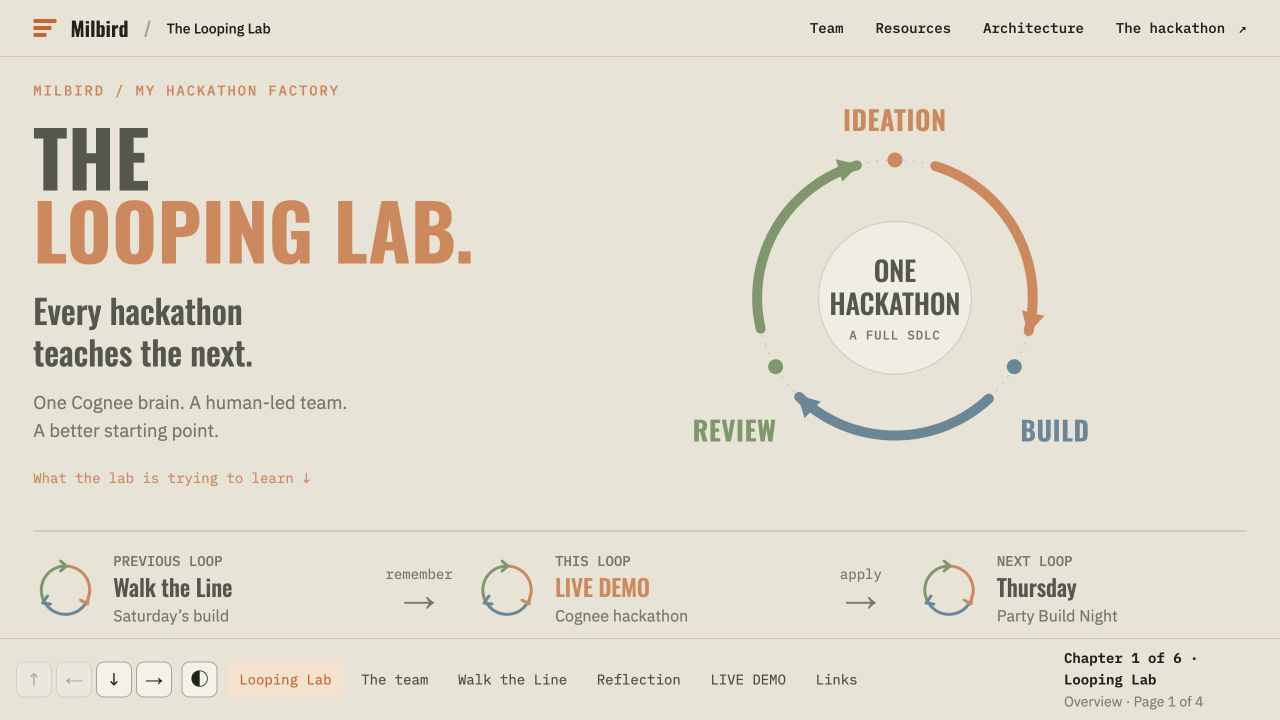
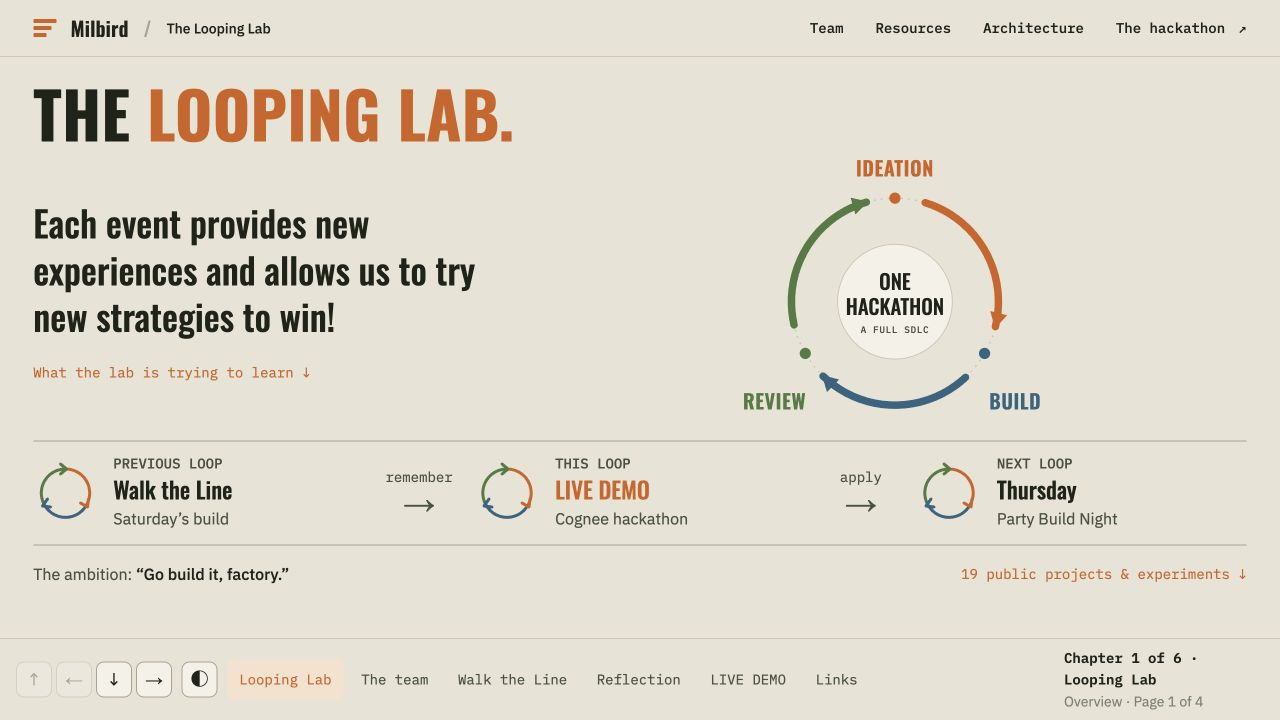
Update Looping Lab cover message and layout

diff --git a/presentation/index.html b/presentation/index.html
@@ -21,7 +21,7 @@
   <nav aria-label="Main navigation"><a href="#team">Team</a><a href="#links">Resources</a><a href="#today/architecture">Architecture</a><a class="event-link" href="https://luma.com/sep-21-cognee-aws" target="_blank" rel="noopener noreferrer">The hackathon <span aria-hidden="true">↗</span></a></nav>
 </header>
 <main id="main" tabindex="-1">
-<section id="story" class="lab-cover loop-cover deck-slide" data-chapter="story" data-page="overview" data-chapter-title="Looping Lab" data-title="The Looping Lab" aria-labelledby="hero-title"><div class="loop-cover-main"><div class="loop-intro"><p class="eyebrow">MILBIRD / MY HACKATHON FACTORY</p><h1 id="hero-title">The<br><em>Looping Lab.</em></h1><p class="loop-thesis">Every hackathon<br>teaches the next.</p><p class="loop-intent">One Cognee brain. A human-led team.<br>A better starting point.</p><a class="quiet-link" href="#story/goals">What the lab is trying to learn ↓</a></div><figure class="cycle-figure"><svg class="learning-cycle" viewBox="0 0 640 425" role="img" aria-labelledby="cycle-title cycle-desc"><title id="cycle-title">The three-stage hackathon loop</title><desc id="cycle-desc">A clockwise circle connects Ideation at the top, Build at the lower right, and Review at the lower left. Review returns to Ideation. The goal is to run this complete cycle at each hackathon.</desc><defs><marker id="loop-arrow-comms" viewBox="0 0 12 12" refX="9" refY="6" markerWidth="2.8" markerHeight="2.8" orient="auto"><path d="M 1 1 L 10 6 L 1 11 Z" class="fill-comms"/></marker><marker id="loop-arrow-water" viewBox="0 0 12 12" refX="9" refY="6" markerWidth="2.8" markerHeight="2.8" orient="auto"><path d="M 1 1 L 10 6 L 1 11 Z" class="fill-water"/></marker><marker id="loop-arrow-sewer" viewBox="0 0 12 12" refX="9" refY="6" markerWidth="2.8" markerHeight="2.8" orient="auto"><path d="M 1 1 L 10 6 L 1 11 Z" class="fill-sewer"/></marker></defs><circle cx="320" cy="228" r="166" class="cycle-track"/><path d="M 368.53 69.25 A 166 166 0 0 1 481.07 268.16" class="cycle-segment cycle-comms" marker-end="url(#loop-arrow-comms)"/><path d="M 433.21 349.40 A 166 166 0 0 1 204.69 347.41" class="cycle-segment cycle-water" marker-end="url(#loop-arrow-water)"/><path d="M 158.25 265.34 A 166 166 0 0 1 274.24 68.43" class="cycle-segment cycle-sewer" marker-end="url(#loop-arrow-sewer)"/><circle cx="320" cy="62" r="9" class="fill-comms"/><circle cx="463.76" cy="311" r="9" class="fill-water"/><circle cx="176.24" cy="311" r="9" class="fill-sewer"/><text x="320" y="27" text-anchor="middle" class="cycle-stage fill-comms">IDEATION</text><text x="513" y="401" text-anchor="middle" class="cycle-stage fill-water">BUILD</text><text x="127" y="401" text-anchor="middle" class="cycle-stage fill-sewer">REVIEW</text><circle cx="320" cy="228" r="92" class="cycle-center"/><text x="320" y="209" text-anchor="middle" class="cycle-core">ONE</text><text x="320" y="249" text-anchor="middle" class="cycle-core">HACKATHON</text><text x="320" y="278" text-anchor="middle" class="cycle-caption">A FULL SDLC</text></svg></figure></div><div class="event-loop-rail" aria-label="The loop repeats across hackathons"><a class="event-loop" href="#walk-the-line"><svg viewBox="0 0 64 64" aria-hidden="true" class="event-cycle"><path d="M32 8 A24 24 0 0 1 53 44" class="mini-comms"/><path d="M53 44 A24 24 0 0 1 11 44" class="mini-water"/><path d="M11 44 A24 24 0 0 1 32 8" class="mini-sewer"/><path d="m47 42 7 4 1-8" class="mini-comms"/><path d="m14 38-5 7 8 1" class="mini-water"/><path d="m27 3 6 5-6 5" class="mini-sewer"/></svg><span><small>PREVIOUS LOOP</small><strong>Walk the Line</strong><span>Saturday’s build</span></span></a><span class="learning-handoff"><span>remember</span><b aria-hidden="true">→</b></span><a class="event-loop current-loop" href="#today"><svg viewBox="0 0 64 64" aria-hidden="true" class="event-cycle"><path d="M32 8 A24 24 0 0 1 53 44" class="mini-comms"/><path d="M53 44 A24 24 0 0 1 11 44" class="mini-water"/><path d="M11 44 A24 24 0 0 1 32 8" class="mini-sewer"/><path d="m47 42 7 4 1-8" class="mini-comms"/><path d="m14 38-5 7 8 1" class="mini-water"/><path d="m27 3 6 5-6 5" class="mini-sewer"/></svg><span><small>THIS LOOP</small><strong>LIVE DEMO</strong><span>Cognee hackathon</span></span></a><span class="learning-handoff"><span>apply</span><b aria-hidden="true">→</b></span><div class="event-loop next-loop"><svg viewBox="0 0 64 64" aria-hidden="true" class="event-cycle"><path d="M32 8 A24 24 0 0 1 53 44" class="mini-comms"/><path d="M53 44 A24 24 0 0 1 11 44" class="mini-water"/><path d="M11 44 A24 24 0 0 1 32 8" class="mini-sewer"/><path d="m47 42 7 4 1-8" class="mini-comms"/><path d="m14 38-5 7 8 1" class="mini-water"/><path d="m27 3 6 5-6 5" class="mini-sewer"/></svg><span><small>NEXT LOOP</small><strong>Thursday</strong><span>Party Build Night</span></span></div></div><div class="loop-bottom"><p class="loop-ambition">The ambition: <strong>“Go build it, factory.”</strong></p><a class="quiet-link" href="#story/hackathons">19 public projects &amp; experiments ↓</a></div></section>
+<section id="story" class="lab-cover loop-cover deck-slide" data-chapter="story" data-page="overview" data-chapter-title="Looping Lab" data-title="The Looping Lab" aria-labelledby="hero-title"><h1 id="hero-title">The <em>Looping Lab.</em></h1><div class="loop-cover-main"><div class="loop-intro"><p class="loop-thesis">Each event provides new experiences and allows us to try new strategies to win!</p><a class="quiet-link" href="#story/goals">What the lab is trying to learn ↓</a></div><figure class="cycle-figure"><svg class="learning-cycle" viewBox="0 0 640 425" role="img" aria-labelledby="cycle-title cycle-desc"><title id="cycle-title">The three-stage hackathon loop</title><desc id="cycle-desc">A clockwise circle connects Ideation at the top, Build at the lower right, and Review at the lower left. Review returns to Ideation. The goal is to run this complete cycle at each hackathon.</desc><defs><marker id="loop-arrow-comms" viewBox="0 0 12 12" refX="9" refY="6" markerWidth="2.8" markerHeight="2.8" orient="auto"><path d="M 1 1 L 10 6 L 1 11 Z" class="fill-comms"/></marker><marker id="loop-arrow-water" viewBox="0 0 12 12" refX="9" refY="6" markerWidth="2.8" markerHeight="2.8" orient="auto"><path d="M 1 1 L 10 6 L 1 11 Z" class="fill-water"/></marker><marker id="loop-arrow-sewer" viewBox="0 0 12 12" refX="9" refY="6" markerWidth="2.8" markerHeight="2.8" orient="auto"><path d="M 1 1 L 10 6 L 1 11 Z" class="fill-sewer"/></marker></defs><circle cx="320" cy="228" r="166" class="cycle-track"/><path d="M 368.53 69.25 A 166 166 0 0 1 481.07 268.16" class="cycle-segment cycle-comms" marker-end="url(#loop-arrow-comms)"/><path d="M 433.21 349.40 A 166 166 0 0 1 204.69 347.41" class="cycle-segment cycle-water" marker-end="url(#loop-arrow-water)"/><path d="M 158.25 265.34 A 166 166 0 0 1 274.24 68.43" class="cycle-segment cycle-sewer" marker-end="url(#loop-arrow-sewer)"/><circle cx="320" cy="62" r="9" class="fill-comms"/><circle cx="463.76" cy="311" r="9" class="fill-water"/><circle cx="176.24" cy="311" r="9" class="fill-sewer"/><text x="320" y="27" text-anchor="middle" class="cycle-stage fill-comms">IDEATION</text><text x="513" y="401" text-anchor="middle" class="cycle-stage fill-water">BUILD</text><text x="127" y="401" text-anchor="middle" class="cycle-stage fill-sewer">REVIEW</text><circle cx="320" cy="228" r="92" class="cycle-center"/><text x="320" y="209" text-anchor="middle" class="cycle-core">ONE</text><text x="320" y="249" text-anchor="middle" class="cycle-core">HACKATHON</text><text x="320" y="278" text-anchor="middle" class="cycle-caption">A FULL SDLC</text></svg></figure></div><div class="event-loop-rail" aria-label="The loop repeats across hackathons"><a class="event-loop" href="#walk-the-line"><svg viewBox="0 0 64 64" aria-hidden="true" class="event-cycle"><path d="M32 8 A24 24 0 0 1 53 44" class="mini-comms"/><path d="M53 44 A24 24 0 0 1 11 44" class="mini-water"/><path d="M11 44 A24 24 0 0 1 32 8" class="mini-sewer"/><path d="m47 42 7 4 1-8" class="mini-comms"/><path d="m14 38-5 7 8 1" class="mini-water"/><path d="m27 3 6 5-6 5" class="mini-sewer"/></svg><span><small>PREVIOUS LOOP</small><strong>Walk the Line</strong><span>Saturday’s build</span></span></a><span class="learning-handoff"><span>remember</span><b aria-hidden="true">→</b></span><a class="event-loop current-loop" href="#today"><svg viewBox="0 0 64 64" aria-hidden="true" class="event-cycle"><path d="M32 8 A24 24 0 0 1 53 44" class="mini-comms"/><path d="M53 44 A24 24 0 0 1 11 44" class="mini-water"/><path d="M11 44 A24 24 0 0 1 32 8" class="mini-sewer"/><path d="m47 42 7 4 1-8" class="mini-comms"/><path d="m14 38-5 7 8 1" class="mini-water"/><path d="m27 3 6 5-6 5" class="mini-sewer"/></svg><span><small>THIS LOOP</small><strong>LIVE DEMO</strong><span>Cognee hackathon</span></span></a><span class="learning-handoff"><span>apply</span><b aria-hidden="true">→</b></span><div class="event-loop next-loop"><svg viewBox="0 0 64 64" aria-hidden="true" class="event-cycle"><path d="M32 8 A24 24 0 0 1 53 44" class="mini-comms"/><path d="M53 44 A24 24 0 0 1 11 44" class="mini-water"/><path d="M11 44 A24 24 0 0 1 32 8" class="mini-sewer"/><path d="m47 42 7 4 1-8" class="mini-comms"/><path d="m14 38-5 7 8 1" class="mini-water"/><path d="m27 3 6 5-6 5" class="mini-sewer"/></svg><span><small>NEXT LOOP</small><strong>Thursday</strong><span>Party Build Night</span></span></div></div><div class="loop-bottom"><p class="loop-ambition">The ambition: <strong>“Go build it, factory.”</strong></p><a class="quiet-link" href="#story/hackathons">19 public projects &amp; experiments ↓</a></div></section>
 <section id="story-goals" class="detail-slide deck-slide" data-chapter="story" data-page="goals" data-chapter-title="Looping Lab" data-title="The goals of the Looping Lab." aria-labelledby="story-goals-title"><div class="section-heading"><div><p class="eyebrow">LOOPING LAB / GOALS &amp; EXPERIMENTS</p><h2 id="story-goals-title">Every hackathon tests the factory.</h2></div><p>The event is the workload. The reusable result is what we learn about building with agents.</p></div><div class="arc"><article class="ac" style="--ac:var(--comms)"><span class="an">RUN THE FULL SDLC</span><h3>Ideate. Build. Review.</h3><p>Make an idea runnable, check the result, then use the review to change the next preparation.</p></article><article class="ac" style="--ac:var(--water)"><span class="an">ARRIVE READY</span><h3>Go build it, factory.</h3><p>Have the laptop, tools, templates and memory ready, so the first decision can be what to build.</p></article><article class="ac" style="--ac:var(--sewer)"><span class="an">COMPOUND THE LEARNING</span><h3>One event—or many.</h3><p>The Participant role can span multiple hackathons. Keep each event’s evidence distinct inside the same cumulative brain.</p></article></div><ol class="factory-flow"><li><span>EXPERIMENT</span><strong>State a hypothesis</strong></li><li><span>CHANGE</span><strong>Try one approach</strong></li><li><span>EVIDENCE</span><strong>Check what happened</strong></li><li><span>NEXT LOOP</span><strong>Change the next preparation</strong></li></ol><p class="detail-takeaway">Speed, quality, repeatability and better competition outcomes are goals. The evidence tells us whether a particular experiment helped.</p><a class="quiet-link" href="#story/hackathons">Explore the project history ↓</a></section><section id="story-context" class="detail-slide deck-slide" data-chapter="story" data-page="context" data-chapter-title="Looping Lab" data-title="Make the factory faster with every loop." aria-labelledby="story-context-title"><div class="section-heading"><div><p class="eyebrow">LOOPING LAB / THE FULL SDLC</p><h2 id="story-context-title">Make the factory faster with every loop.</h2></div><p>Hackathon Prep is the repository name. Looping Lab is the learning system: one cumulative brain, a reusable setup, and a complete build-and-review cycle.</p></div><div class="arc"><article class="ac" style="--ac:var(--comms)"><span class="an">DEFINE & DESIGN</span><h3>Ideate</h3><p>Choose the problem, expected behavior, acceptance checks, and the smallest useful solution.</p><span class="built">Beginning</span></article><article class="ac" style="--ac:var(--water)"><span class="an">IMPLEMENT & VERIFY</span><h3>Build</h3><p>Turn the idea into software, run checks, prepare the demo, and preserve execution evidence.</p><span class="built">Middle</span></article><article class="ac" style="--ac:var(--sewer)"><span class="an">EVALUATE & IMPROVE</span><h3>Review</h3><p>Compare the result with the goal. Keep corrections and reusable lessons for the next event.</p><span class="built">End → next beginning</span></article></div><p class="detail-takeaway">Measure time to first runnable build, time to a verified answer, and how much useful work is reused. Measurements are still to be collected.</p></section>
 <section id="story-hackathons" class="detail-slide deck-slide history-slide" data-chapter="story" data-page="hackathons" data-chapter-title="Looping Lab" data-title="Many hackathons. One learning lab." aria-labelledby="history-title"><div class="section-heading"><div><p class="eyebrow">LOOPING LAB / EXPERIMENTS OVER TIME</p><h2 id="history-title">Many hackathons.<br>One learning lab.</h2></div><p>Each event is another chance to ideate, build, and review. Browse the projects from my Milbird carousel, then follow Saturday’s loop into today’s.</p></div><div class="history-counts"><div><strong>19</strong><span>public portfolio entries</span></div><div><strong>14</strong><span>events with structured outcomes</span></div><div><strong>17</strong><span>event learning records</span></div></div><p class="history-count-note">Overlapping snapshots of projects and experiments—not an additive attendance total. The broader history continues to grow.</p><div class="portfolio-carousel" data-native-keys tabindex="0" role="region" aria-label="Hackathon project carousel"><div class="portfolio-controls"><span id="portfolio-position" aria-live="polite">1 / 19</span><div><button type="button" id="portfolio-previous" aria-label="Previous hackathon project">←</button><button type="button" id="portfolio-next" aria-label="Next hackathon project">→</button></div></div><div class="portfolio-track"><article class="portfolio-card" data-index="0"><div class="portfolio-cover"><img src="https://milbird.com/ledger/event-data-ai.jpg" alt="" loading="lazy" width="600" height="400"></div><div class="portfolio-copy"><div class="portfolio-meta"><time datetime="2026-09-11">2026-09-11</time><span>Attended</span></div><h3>Data &amp; AI Hackathon</h3><p>Data &amp; AI Hackathon: Real job. Real AI. Real scale.</p><div class="portfolio-links"><a href="https://luma.com/qisv9xmg" target="_blank" rel="noopener noreferrer">About the event ↗</a></div></div></article><article class="portfolio-card" data-index="1"><div class="portfolio-cover"><img src="https://milbird.com/ledger/event-better-days.jpg" alt="" loading="lazy" width="600" height="400"></div><div class="portfolio-copy"><div class="portfolio-meta"><time datetime="2026-08-28">2026-08-28</time><span>1st place</span></div><h3>Read to Play</h3><p>Better Days: A Hackathon — San Francisco</p><div class="portfolio-links"><a href="https://github.com/Patcast/clickhouse_hackathon" target="_blank" rel="noopener noreferrer">Explore the project ↗</a></div></div></article><article class="portfolio-card" data-index="2"><div class="portfolio-cover"><img src="https://milbird.com/ledger/event-sia.jpg" alt="" loading="lazy" width="600" height="400"></div><div class="portfolio-copy"><div class="portfolio-meta"><time datetime="2026-08-25">2026-08-25</time><span>Experiment</span></div><h3>Enid Certificate Agent</h3><p>Frontier Build Night: Self-Improving Agents</p><div class="portfolio-links"><a href="https://github.com/jymiller/hack-sia" target="_blank" rel="noopener noreferrer">Explore the project ↗</a><a href="https://www.youtube.com/watch?v=TATwwNfjNfA" target="_blank" rel="noopener noreferrer">Demo ↗</a></div></div></article><article class="portfolio-card" data-index="3"><div class="portfolio-cover"><img src="https://milbird.com/ledger/great-questions.jpg" alt="" loading="lazy" width="600" height="400"></div><div class="portfolio-copy"><div class="portfolio-meta"><time datetime="2026-08-19">2026-08-19</time><span>Build</span></div><h3>Great Questions AI</h3><p>Agent Memory Hack Night</p><div class="portfolio-links"><a href="https://github.com/jymiller/hack-elastic-mastra" target="_blank" rel="noopener noreferrer">Explore the project ↗</a><a href="https://youtu.be/mRkD1FRksxg" target="_blank" rel="noopener noreferrer">Demo ↗</a></div></div></article><article class="portfolio-card" data-index="4"><div class="portfolio-cover"><img src="https://milbird.com/ledger/event-agent-harness.jpg" alt="" loading="lazy" width="600" height="400"></div><div class="portfolio-copy"><div class="portfolio-meta"><time datetime="2026-08-18">2026-08-18</time><span>2nd place</span></div><h3>Podcast Research Agent</h3><p>The Agent Harness Workshop</p><div class="portfolio-links"><a href="https://github.com/jymiller/hack-truefoundry" target="_blank" rel="noopener noreferrer">Explore the project ↗</a></div></div></article><article class="portfolio-card" data-index="5"><div class="portfolio-cover"><img src="https://milbird.com/ledger/event-terac.jpg" alt="" loading="lazy" width="600" height="400"></div><div class="portfolio-copy"><div class="portfolio-meta"><time datetime="2026-08-15">2026-08-15</time><span>Experiment</span></div><h3>Second Reading</h3><p>Zero-Human Company Hackathon</p><div class="portfolio-links"><a href="https://github.com/jymiller/hack-terac" target="_blank" rel="noopener noreferrer">Explore the project ↗</a></div></div></article><article class="portfolio-card" data-index="6"><div class="portfolio-cover"><img src="https://milbird.com/ledger/event-relay.jpg" alt="" loading="lazy" width="600" height="400"></div><div class="portfolio-copy"><div class="portfolio-meta"><time datetime="2026-08-13">2026-08-13</time><span>Build</span></div><h3>Enid Mandate Relay</h3><p>Persistent Context Sprint — MongoDB .local Build Fest</p><div class="portfolio-links"><a href="https://github.com/jymiller/enid-mandate-relay" target="_blank" rel="noopener noreferrer">Explore the project ↗</a><a href="https://youtu.be/hqXhRymcpS4" target="_blank" rel="noopener noreferrer">Demo ↗</a></div></div></article><article class="portfolio-card" data-index="7"><div class="portfolio-cover"><div class="portfolio-type-cover" aria-hidden="true">Deal Witness: DataHub</div></div><div class="portfolio-copy"><div class="portfolio-meta"><time datetime="2026-08-10">2026-08-10</time><span>Not submitted for judging</span></div><h3>Deal Witness: DataHub</h3><p>Build with DataHub: The Agent Hackathon</p><div class="portfolio-links"><a href="https://datahub.devpost.com/" target="_blank" rel="noopener noreferrer">About the event ↗</a></div></div></article><article class="portfolio-card" data-index="8"><div class="portfolio-cover"><img src="https://milbird.com/ledger/deal-witness.jpg" alt="" loading="lazy" width="600" height="400"></div><div class="portfolio-copy"><div class="portfolio-meta"><time datetime="2026-08-07">2026-08-07</time><span>Build</span></div><h3>Deal Witness</h3><p>Snowflake × Beta Fund — Agent &amp; Token Economy</p><div class="portfolio-links"><a href="https://github.com/jymiller/deal-witness" target="_blank" rel="noopener noreferrer">Explore the project ↗</a></div></div></article><article class="portfolio-card" data-index="9"><div class="portfolio-cover"><img src="https://milbird.com/ledger/asset-watcher.jpg" alt="" loading="lazy" width="600" height="400"></div><div class="portfolio-copy"><div class="portfolio-meta"><time datetime="2026-08-03">2026-08-03</time><span>Build</span></div><h3>Asset Watcher</h3><p>Memory Meets Motion: Hackathon</p><div class="portfolio-links"><a href="https://github.com/jymiller/hack-memory-motion" target="_blank" rel="noopener noreferrer">Explore the project ↗</a><a href="https://www.youtube.com/watch?v=QRdyvOMdL2g" target="_blank" rel="noopener noreferrer">Demo ↗</a></div></div></article><article class="portfolio-card" data-index="10"><div class="portfolio-cover"><img src="https://milbird.com/ledger/event-fogbridges.jpg" alt="" loading="lazy" width="600" height="400"></div><div class="portfolio-copy"><div class="portfolio-meta"><time datetime="2026-08-02">2026-08-02</time><span>Build</span></div><h3>Fog Bridges</h3><p>Outside LLMs III — Music &amp; AI Buildathon</p><div class="portfolio-links"><a href="https://github.com/jymiller/outside-llms" target="_blank" rel="noopener noreferrer">Explore the project ↗</a><a href="https://youtu.be/E147bhNWQyw" target="_blank" rel="noopener noreferrer">Demo ↗</a></div></div></article><article class="portfolio-card" data-index="11"><div class="portfolio-cover"><img src="https://milbird.com/ledger/material-witness.jpg" alt="" loading="lazy" width="600" height="400"></div><div class="portfolio-copy"><div class="portfolio-meta"><time datetime="2026-07-30">2026-07-30</time><span>Not submitted for judging</span></div><h3>Material Witness</h3><p>Hack the Video Agent Context Graph</p><div class="portfolio-links"><a href="https://github.com/jymiller/hack-video" target="_blank" rel="noopener noreferrer">Explore the project ↗</a></div></div></article><article class="portfolio-card" data-index="12"><div class="portfolio-cover"><img src="https://milbird.com/ledger/covenant-watch.png" alt="" loading="lazy" width="600" height="400"></div><div class="portfolio-copy"><div class="portfolio-meta"><time datetime="2026-07-26">2026-07-26</time><span>3rd place</span></div><h3>Covenant Watch</h3><p>CrewAI Studio Hackathon</p><div class="portfolio-links"><a href="https://github.com/jymiller/covenant-watch" target="_blank" rel="noopener noreferrer">Explore the project ↗</a><a href="https://www.youtube.com/watch?v=GMZ66d153QY" target="_blank" rel="noopener noreferrer">Demo ↗</a></div></div></article><article class="portfolio-card" data-index="13"><div class="portfolio-cover"><img src="https://milbird.com/ledger/mind-games.png" alt="" loading="lazy" width="600" height="400"></div><div class="portfolio-copy"><div class="portfolio-meta"><time datetime="2026-07-25">2026-07-25</time><span>Build</span></div><h3>Deal Memory</h3><p>Mind Games AI Hackathon</p><div class="portfolio-links"><a href="https://github.com/jymiller/mind-games" target="_blank" rel="noopener noreferrer">Explore the project ↗</a></div></div></article><article class="portfolio-card" data-index="14"><div class="portfolio-cover"><img src="https://milbird.com/ledger/hack-you.png" alt="" loading="lazy" width="600" height="400"></div><div class="portfolio-copy"><div class="portfolio-meta"><time datetime="2026-07-24">2026-07-24</time><span>3rd place</span></div><h3>Covenant Sentinel</h3><p>You.com Agentic Hackathon</p><div class="portfolio-links"><a href="https://github.com/jymiller/hack-you" target="_blank" rel="noopener noreferrer">Explore the project ↗</a></div></div></article><article class="portfolio-card" data-index="15"><div class="portfolio-cover"><img src="https://milbird.com/ledger/wet-ink.png" alt="" loading="lazy" width="600" height="400"></div><div class="portfolio-copy"><div class="portfolio-meta"><time datetime="2026-07-21">2026-07-21</time><span>1st place</span></div><h3>Wet Ink</h3><p>Last Mile Agent Hackathon</p><div class="portfolio-links"><a href="https://github.com/jymiller/wet-ink" target="_blank" rel="noopener noreferrer">Explore the project ↗</a></div></div></article><article class="portfolio-card" data-index="16"><div class="portfolio-cover"><img src="https://milbird.com/ledger/cold-open.png" alt="" loading="lazy" width="600" height="400"></div><div class="portfolio-copy"><div class="portfolio-meta"><time datetime="2026-07-17">2026-07-17</time><span>Not submitted for judging</span></div><h3>Cold Open</h3><p>Loop Engineering Hackathon</p><div class="portfolio-links"><a href="https://github.com/jymiller/cold-open" target="_blank" rel="noopener noreferrer">Explore the project ↗</a><a href="https://www.youtube.com/watch?v=RyuWErIZMGw" target="_blank" rel="noopener noreferrer">Demo ↗</a></div></div></article><article class="portfolio-card" data-index="17"><div class="portfolio-cover"><img src="https://milbird.com/ledger/nightbridges.png" alt="" loading="lazy" width="600" height="400"></div><div class="portfolio-copy"><div class="portfolio-meta"><time datetime="2026-04-04">2026-04-04</time><span>Build</span></div><h3>Nightbridges</h3><p>Who Is the Agent Master?</p><div class="portfolio-links"><a href="https://github.com/jymiller/nightbridges" target="_blank" rel="noopener noreferrer">Explore the project ↗</a></div></div></article><article class="portfolio-card" data-index="18"><div class="portfolio-cover"><div class="portfolio-type-cover" aria-hidden="true">Timesheet Reconciliation</div></div><div class="portfolio-copy"><div class="portfolio-meta"><time datetime="2026-02-27">2026-02-27</time><span>Build</span></div><h3>Timesheet Reconciliation</h3><p>Llama Lounge Agentic Hackathon</p><div class="portfolio-links"><a href="https://github.com/jymiller/llama-hack" target="_blank" rel="noopener noreferrer">Explore the project ↗</a></div></div></article></div><p class="portfolio-help">Scroll the shelf, or use ← → while the carousel is selected.</p></div><div class="event-foot"><span>Milbird portfolio · 19 entries through September 11 · Saturday and today follow in this deck.</span><a class="quiet-link" href="https://milbird.com/hackathons/" target="_blank" rel="noopener noreferrer">Open full carousel ↗</a></div></section>
 <section id="team" class="detail-slide deck-slide team-scene-slide" data-chapter="team" data-page="overview" data-chapter-title="The team" data-title="The team at work." aria-labelledby="team-title">

diff --git a/presentation/styles.css b/presentation/styles.css
@@ -91,3 +91,11 @@ body{font-family:var(--body);color:var(--ink);background:var(--paper)}.deck-read
 .focus-demo-main:has(.focus-demo-screenshot){grid-template-columns:.9fr 1.25fr;gap:2rem}.focus-demo-main:has(.focus-demo-screenshot) h2{font-size:clamp(2.6rem,3.8vw,4rem)}.focus-demo-screenshot img{width:100%;height:auto;max-height:calc(100dvh - 315px);object-fit:contain;filter:none;border-radius:12px;box-shadow:0 16px 40px #17192224;background:#171922}.focus-demo-screenshot a{display:block}.focus-demo-screenshot figcaption{font-size:.75rem;margin-top:.6rem}@media(max-width:700px){.focus-demo-main:has(.focus-demo-screenshot){grid-template-columns:1fr}.focus-demo-screenshot img{max-height:none}.focus-demo-main:has(.focus-demo-screenshot) h2{font-size:2.7rem}}
 
 .brain-search-evidence{margin:0}.brain-search-evidence img{display:block;width:100%;height:auto;border-radius:10px;background:#0c1224}.brain-search-evidence figcaption{display:flex;flex-wrap:wrap;justify-content:space-between;gap:.7rem;font-size:.875rem;line-height:1.5;color:var(--ink-2);margin-top:.8rem}.brain-search-slide .section-heading{margin-bottom:1rem}
+
+/* Keep the cover title at the slide’s top-left, with the loop below. */
+.deck-ready .loop-cover{align-content:start}
+.deck-ready .loop-cover>h1{font-size:clamp(2.8rem,5vw,4.5rem);margin:0 0 1rem;grid-row:auto}
+.loop-cover .loop-intro{display:block;padding:0}
+.loop-cover .loop-thesis{max-width:25ch;font-size:clamp(1.65rem,2.8vw,2.5rem);line-height:1.3;margin:0 0 1.25rem}
+@media(max-width:900px){.loop-cover .loop-thesis{max-width:38ch}.loop-cover .learning-cycle{max-height:44vh}}
+@media(min-width:901px) and (max-height:800px){.loop-cover .learning-cycle{max-height:max(220px,calc(100dvh - 455px))}.loop-cover .event-loop-rail{padding-block:.8rem;margin-top:1rem}}
